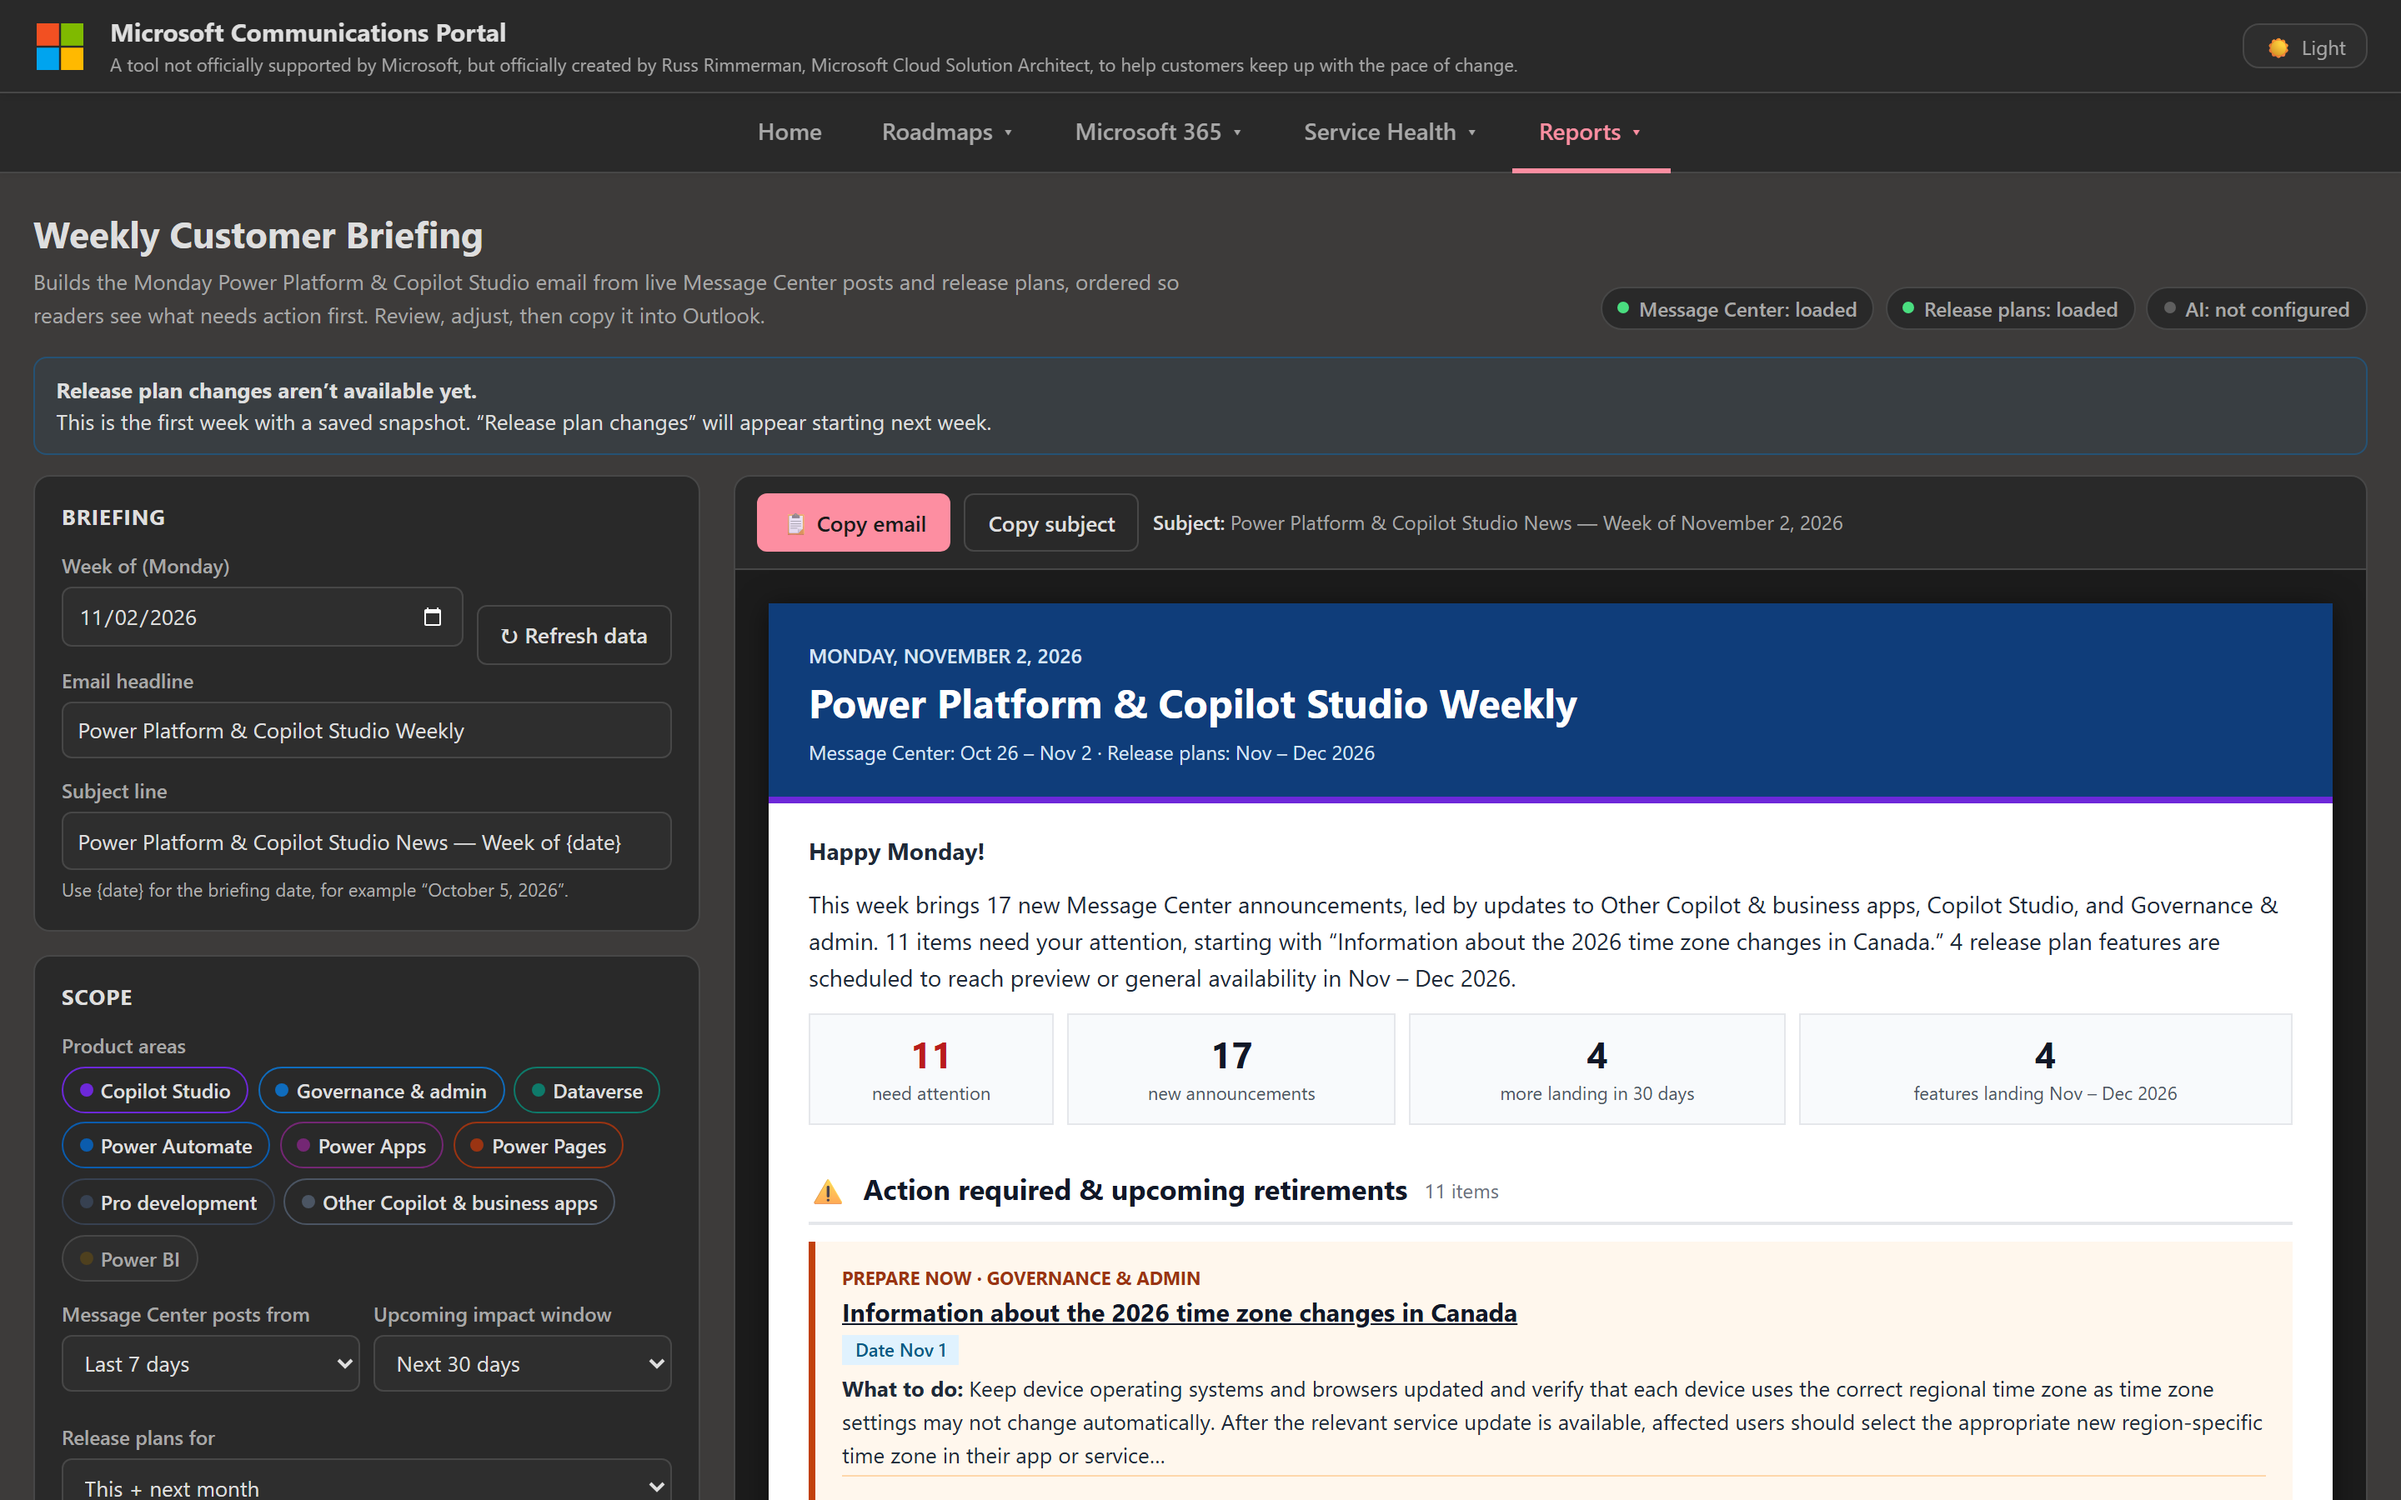
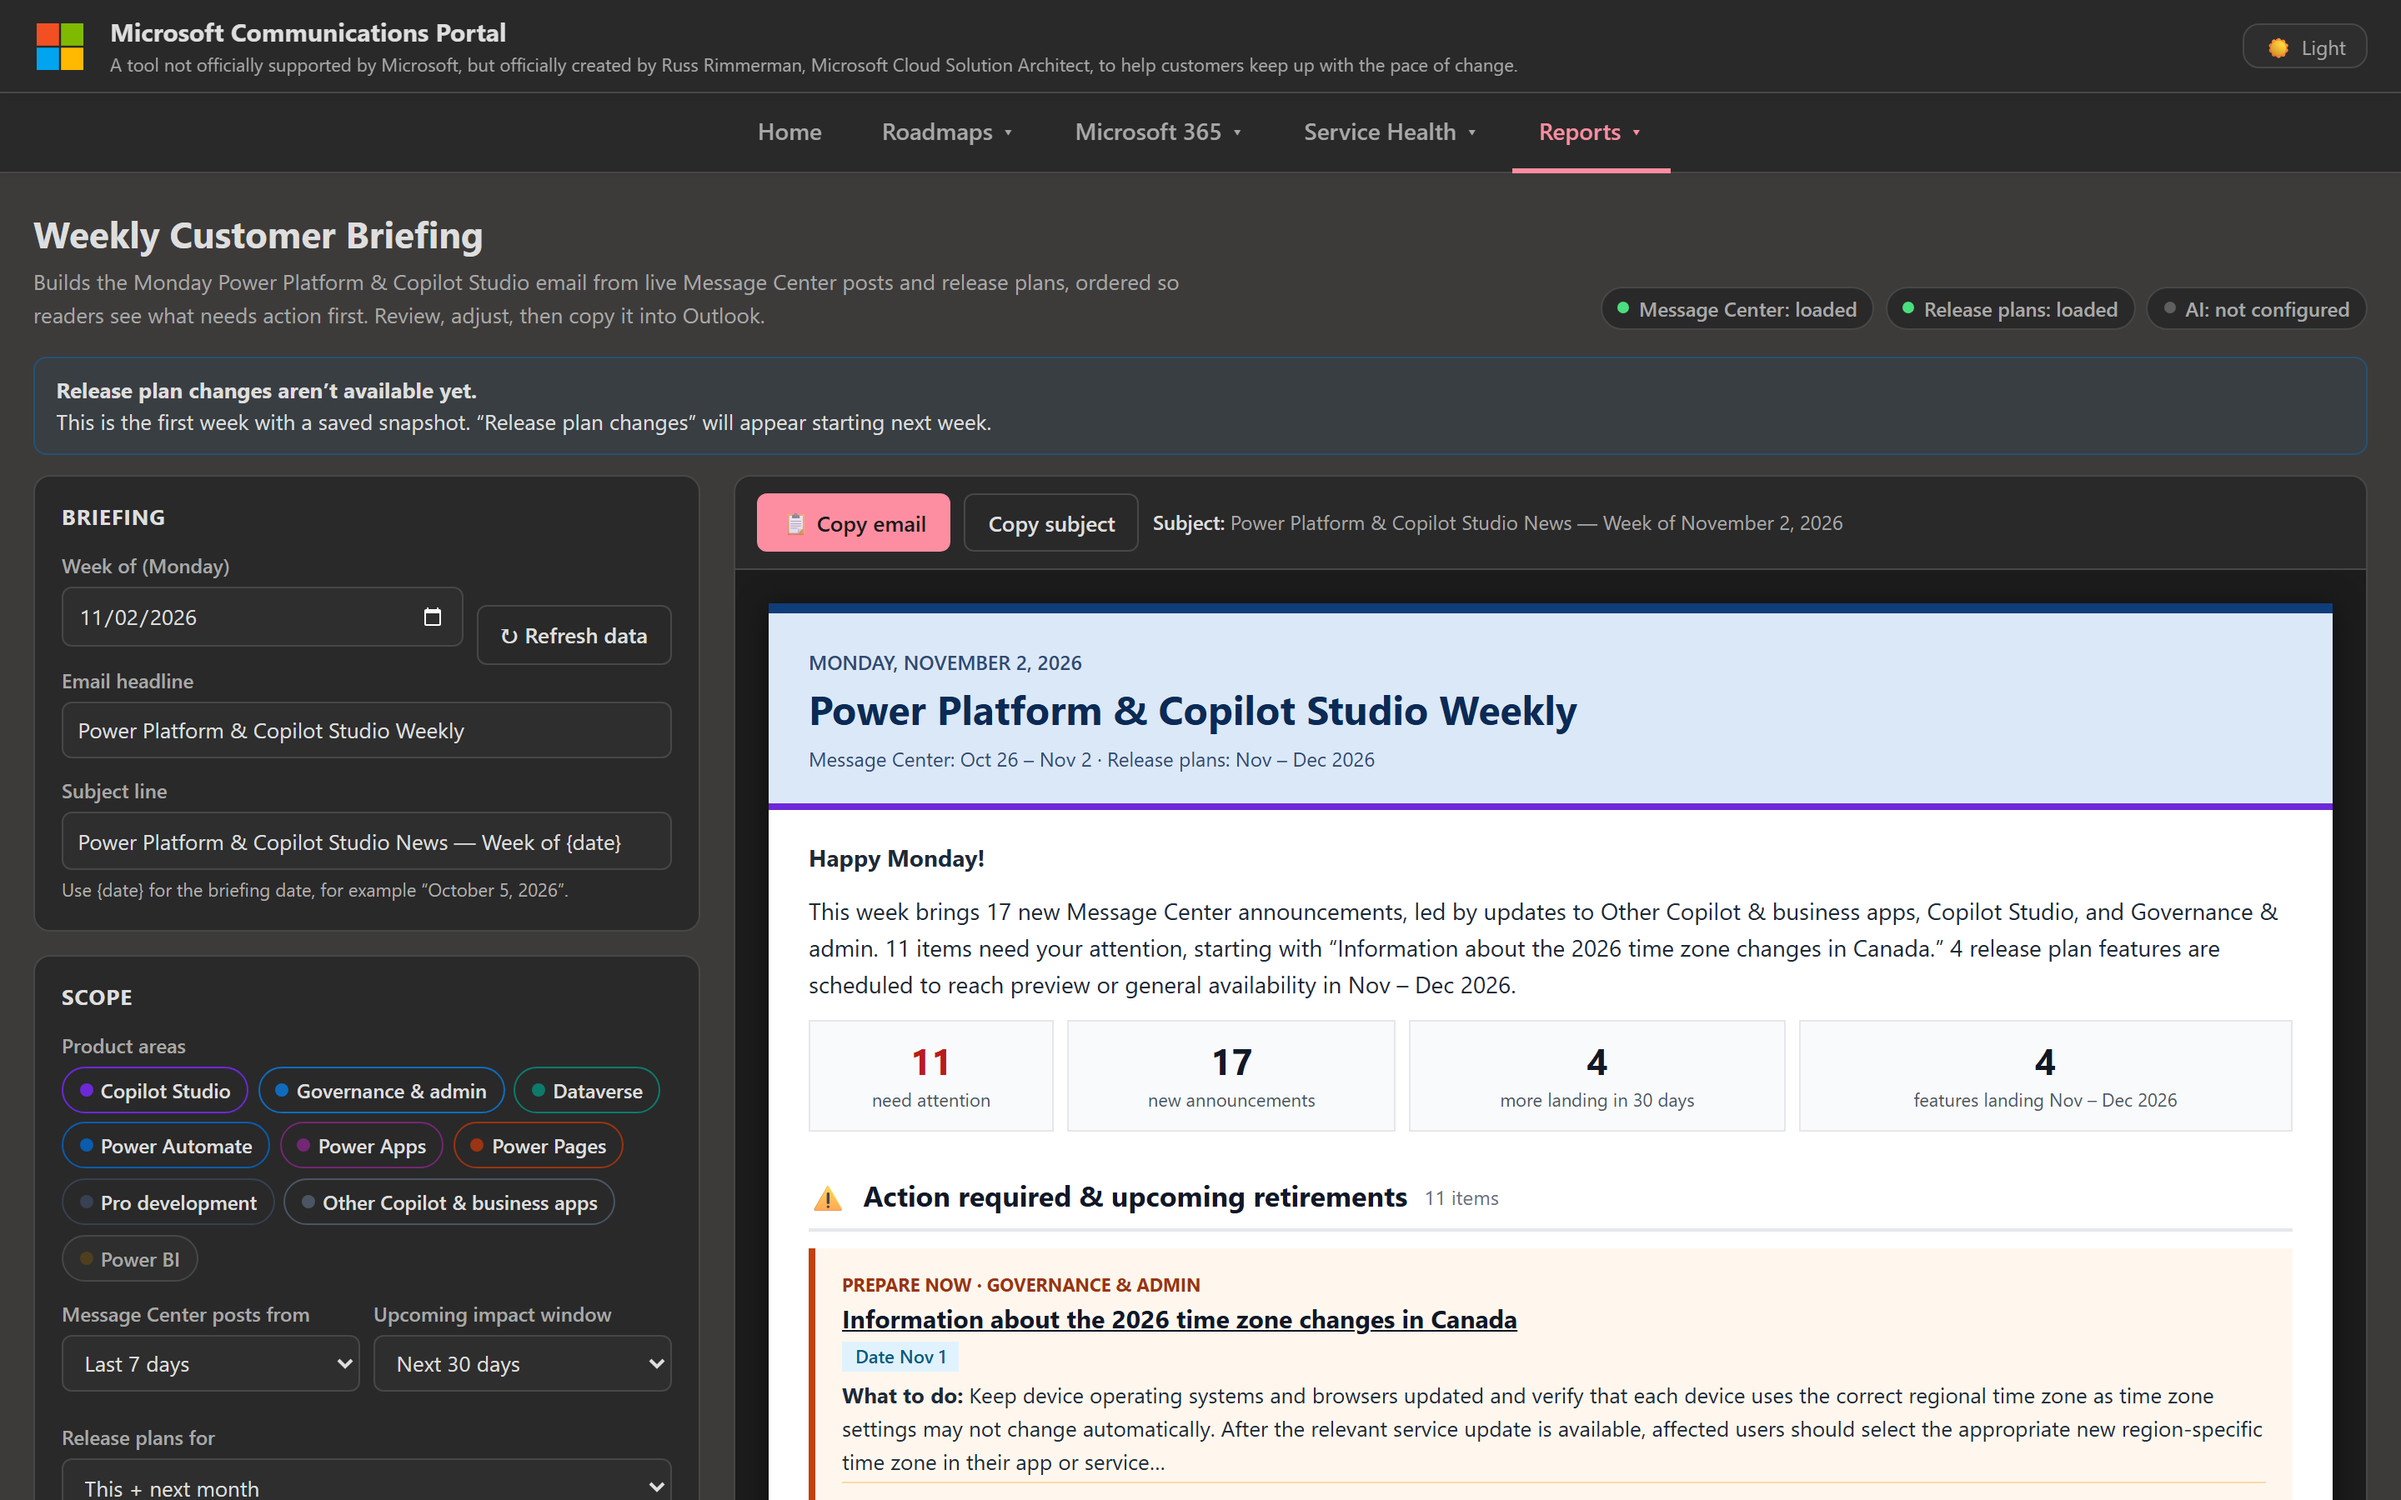
Use a light header and light buttons so the email stays readable when Outlook drops text colors

diff --git a/static/briefing-email.js b/static/briefing-email.js
@@ -20,9 +20,10 @@
     soft: '#6b7280',
     border: '#e5e7eb',
     link: '#0f6cbd',
-    headerBg: '#0f3d7a',
-    headerText: '#ffffff',
-    headerSub: '#d6e4f5',
+    headerBg: '#dbe8f8',
+    headerBar: '#0f3d7a',
+    headerText: '#0b2a55',
+    headerSub: '#2f4a73',
     accent: '#6d28d9',
     actionBg: '#fff7ed',
     actionBar: '#c2410c',
@@ -135,9 +136,12 @@
   }
 
   // ── Sections ────────────────────────────────────────────────────────────
+  // The header is light with dark text on purpose: when a mail client drops
+  // text color on paste, default dark text must still be readable on it.
   function renderHeader(m) {
     return '<table role="presentation" width="100%" cellspacing="0" cellpadding="0" border="0" style="border-collapse:collapse;">' +
-      '<tr><td bgcolor="' + C.headerBg + '" style="background-color:' + C.headerBg + ';padding:22px 24px 18px;font-family:' + FONT + ';">' +
+      '<tr><td height="6" bgcolor="' + C.headerBar + '" style="background-color:' + C.headerBar + ';height:6px;font-size:0;line-height:0;">&nbsp;</td></tr>' +
+      '<tr><td bgcolor="' + C.headerBg + '" style="background-color:' + C.headerBg + ';padding:20px 24px 18px;font-family:' + FONT + ';">' +
       txt('font-size:12px;font-weight:600;color:' + C.headerSub + ';', esc(String(m.dateLabel).toUpperCase())) +
       txt('font-size:24px;font-weight:700;line-height:30px;color:' + C.headerText + ';padding-top:4px;', esc(m.headline)) +
       (m.coverageLabel ? txt('font-size:12px;color:' + C.headerSub + ';padding-top:6px;', esc(m.coverageLabel)) : '') +
@@ -342,11 +346,12 @@
       '<table role="presentation" width="100%" cellspacing="0" cellpadding="0" border="0" style="border-collapse:collapse;">' + rows + '</table>';
   }
 
-  function button(href, label, bg) {
+  // Buttons are light with dark text for the same reason as the header.
+  function button(href, label, bg, edge) {
     var safe = url(href);
     if (!safe) return '';
-    return '<td bgcolor="' + bg + '" style="background-color:' + bg + ';border-radius:4px;padding:8px 14px;font-family:' + FONT + ';">' +
-      '<a href="' + esc(safe) + '" target="_blank" rel="noopener noreferrer" style="color:#ffffff;text-decoration:none;font-size:13px;font-weight:600;">' +
+    return '<td bgcolor="' + bg + '" style="background-color:' + bg + ';border:1px solid ' + edge + ';padding:8px 14px;font-family:' + FONT + ';">' +
+      '<a href="' + esc(safe) + '" target="_blank" rel="noopener noreferrer" style="color:' + C.strong + ';text-decoration:none;font-size:13px;font-weight:600;">' +
       esc(label) + '</a></td>';
   }
 
@@ -362,7 +367,7 @@
     if (s.phone) contact.push(link('tel:' + String(s.phone).replace(/[^\d+]/g, ''), s.phone));
     if (s.linkedin) contact.push(link(s.linkedin, 'LinkedIn'));
     if (contact.length) lines.push(contact.join(' &nbsp;·&nbsp; '));
-    var buttons = [button(s.bookingUrl, '📅 Book time with me', C.link), button(s.feedbackUrl, '💬 Share feedback', C.accent)]
+    var buttons = [button(s.bookingUrl, '📅 Book time with me', '#dbe8f8', C.link), button(s.feedbackUrl, '💬 Share feedback', '#ede9fe', C.accent)]
       .filter(Boolean);
     var buttonRow = '';
     if (buttons.length) {
